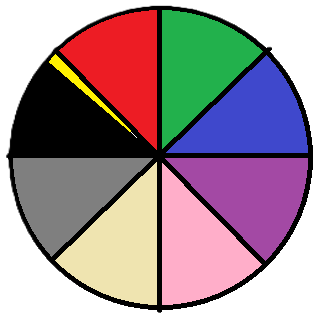
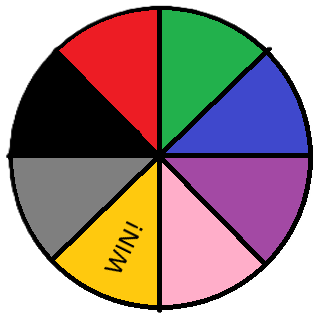
Please enter the commit message for your changes. Lines starting with '#' will be ignored, and an empty message aborts the commit.
On branch main
Your branch is up to date with 'origin/main'.

Changes to be committed:
	modified:   images/wheel.png
	modified:   index.html
	modified:   scripts/boat.js
	modified:   scripts/global.js
	modified:   scripts/main.js

Changed region(s): [[0.1693, 0.5176, 0.5078, 0.9776], [0.1411, 0.1725, 0.395, 0.4026], [0.395, 0.4026, 0.4514, 0.4313]]

diff --git a/scripts/main.js b/scripts/main.js
@@ -5,6 +5,14 @@ const wheelContainer = document.getElementById("wheelContainer");
 const spinWheelButton = document.getElementById("spinWheelButton");
 spinWheelButton.addEventListener("click", spinToWin);
 
+// Reset button to clear storage
+const resetButton = document.getElementById("resetButton");
+resetButton.addEventListener("click", () => {
+    localStorage.clear();
+    window.location.reload();
+});
+
+console.log(playerObj);
 // Calculate a random result and spin the wheel and then display the result.
 function spinToWin(){
     let randNum = Math.floor(Math.random() * playerObj.locations.length);
@@ -18,4 +26,4 @@ function spinToWin(){
     }, 10000);
 }
 
-console.log(playerObj.locations);
+

diff --git a/scripts/global.js b/scripts/global.js
@@ -25,11 +25,7 @@ let playerObj = {
 }
 
 // Load in our player object
-if(localStorage.length > 0){
-    load();
-} else {
-    save(playerObj);
-}
+load();
 
 // Create a generic function for our continue button
 function cont(){

diff --git a/scripts/boat.js b/scripts/boat.js
@@ -40,7 +40,7 @@ const textObject = {
             if(inventory.locket){
                 textObject.hatch.options.shift();
             } else {
-                textObject.hatch.options.splice(1);
+                textObject.hatch.options.splice(1, 1);
             }
             if(inventory.locket && inventory.coin){
                 textObject.deck.options.shift();
@@ -64,7 +64,7 @@ const textObject = {
         text: "Upon placing the locket and coin in the grooves, the box clicks open. The inside is lined with green velvet, and a small figure pops up in the center and begins to spin. You hear a melody come from the box, haunting and sweet. ",
         item: function end(){
             storyText.append(a);
-            removeLocation("theFalls");
+            removeLocation("shipDock");
         }
     }
 }

diff --git a/index.html b/index.html
@@ -29,5 +29,6 @@
             <a href="shimmering-lake/shimmering-lake.html" id="shimmeringLake" hidden>Shimmering Lake</a>
         </div>
     </div>
+    <button id="resetButton">Reset</button>
 </body>
 </html>